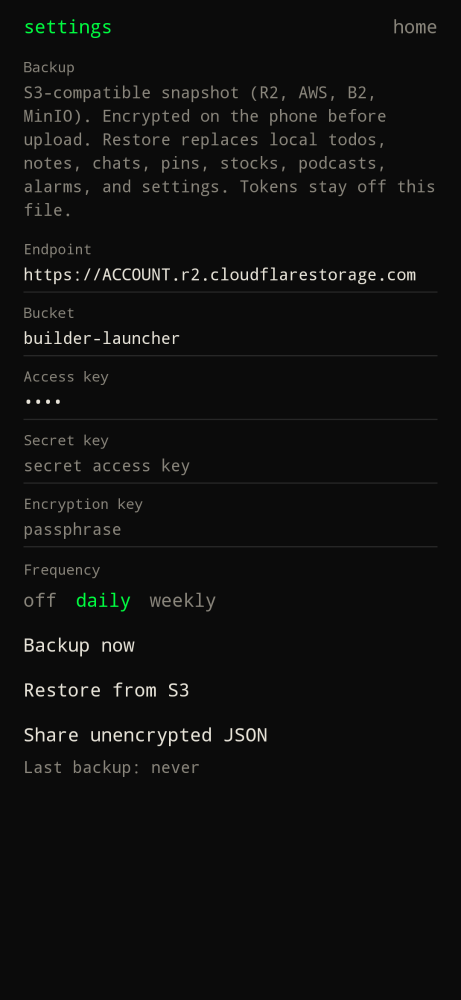
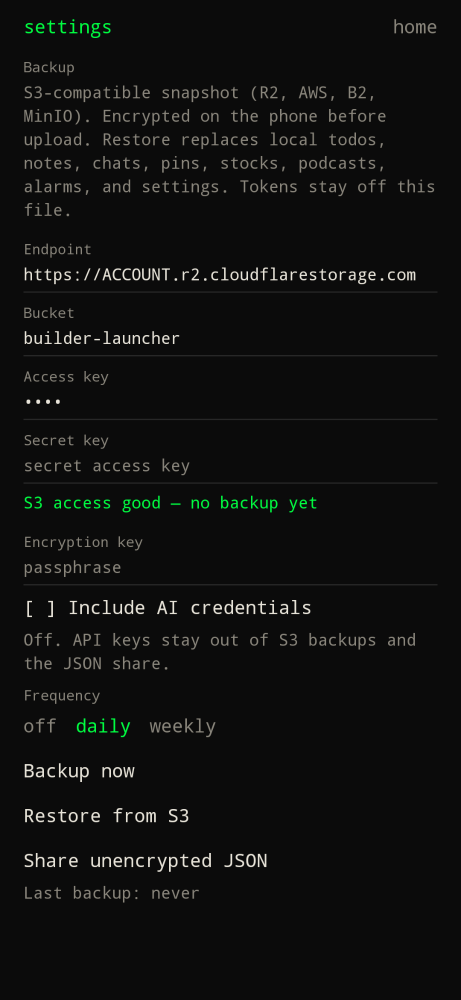
feat: opt-in AI credentials in backups and S3 access test
Include AI credentials is off by default for S3 and JSON share,
with a warning if turned on. Changing S3 endpoint/bucket/keys
probes the bucket like the AI provider access line.

diff --git a/app/src/main/java/xyz/cdr/builderlauncher/ui/BuilderRoot.kt b/app/src/main/java/xyz/cdr/builderlauncher/ui/BuilderRoot.kt
@@ -115,6 +115,8 @@ import xyz.cdr.builderlauncher.ai.oauth.PkceSession
 import xyz.cdr.builderlauncher.apps.AppList
 import xyz.cdr.builderlauncher.backup.BackupFrequency
 import xyz.cdr.builderlauncher.backup.BackupService
+import xyz.cdr.builderlauncher.backup.S3Access
+import xyz.cdr.builderlauncher.backup.S3Signer
 import xyz.cdr.builderlauncher.apps.InstalledApps
 import xyz.cdr.builderlauncher.apps.LaunchableApp
 import xyz.cdr.builderlauncher.calendar.CalendarRepository
@@ -3500,6 +3502,16 @@ private fun SettingsPage(
     var backupMsg by remember { mutableStateOf<String?>(null) }
     var backupBusy by remember { mutableStateOf(false) }
     var confirmRestore by remember { mutableStateOf(false) }
+    var s3Probe by remember { mutableStateOf<S3Access>(S3Access.Idle) }
+    LaunchedEffect(settings.s3Endpoint, settings.s3Bucket, settings.s3AccessKey, settings.s3SecretKey) {
+        if (!S3Signer.credentialsReady(settings.s3Endpoint, settings.s3Bucket, settings.s3AccessKey, settings.s3SecretKey)) {
+            s3Probe = S3Access.Idle
+            return@LaunchedEffect
+        }
+        s3Probe = S3Access.Testing
+        delay(700)
+        s3Probe = withContext(Dispatchers.IO) { backup.probe() }
+    }
     LaunchedEffect(placeQuery, settings.weatherPlace, settings.weatherLat) {
         val q = placeQuery.trim()
         if (q.length < 2 || (q == settings.weatherPlace && settings.weatherLat != null)) {
@@ -3704,10 +3716,43 @@ private fun SettingsPage(
             s3Secret = it
             repo.update { s -> s.copy(s3SecretKey = it) }
         }
+        Spacer(Modifier.height(8.dp))
+        when (val result = s3Probe) {
+            S3Access.Idle -> Text(
+                "Set endpoint, bucket, and keys to test S3.",
+                color = Dim,
+                style = MaterialTheme.typography.bodyMedium,
+            )
+            S3Access.Testing -> Text("Testing S3 access…", color = Dim, style = MaterialTheme.typography.bodyMedium)
+            is S3Access.Done -> Text(
+                result.line,
+                color = if (result.ok) Accent else Dim,
+                style = MaterialTheme.typography.bodyMedium,
+            )
+        }
         LabeledField("Encryption key", s3Encryption, "passphrase") {
             s3Encryption = it
             repo.update { s -> s.copy(s3EncryptionKey = it) }
         }
+        Spacer(Modifier.height(8.dp))
+        Text(
+            if (settings.backupIncludeAiCredentials) "[x] Include AI credentials" else "[ ] Include AI credentials",
+            color = Paper,
+            modifier = Modifier
+                .clickable {
+                    repo.update { it.copy(backupIncludeAiCredentials = !it.backupIncludeAiCredentials) }
+                }
+                .padding(vertical = 8.dp),
+        )
+        Text(
+            if (settings.backupIncludeAiCredentials) {
+                "On. Do not enable unless you use encrypted S3 backups or you understand the risk. Applies to S3 and the JSON share. OAuth tokens still stay on this phone."
+            } else {
+                "Off. API keys stay out of S3 backups and the JSON share."
+            },
+            color = Dim,
+            style = MaterialTheme.typography.bodyMedium,
+        )
         Spacer(Modifier.height(8.dp))
         Text("Frequency", color = Dim, style = MaterialTheme.typography.labelSmall)
         Row(horizontalArrangement = Arrangement.spacedBy(16.dp), modifier = Modifier.padding(vertical = 8.dp)) {

diff --git a/app/src/test/java/xyz/cdr/builderlauncher/backup/BackupTest.kt b/app/src/test/java/xyz/cdr/builderlauncher/backup/BackupTest.kt
@@ -57,7 +57,7 @@ class BackupFrequencyTest {
 
 class BackupDocumentTest {
     @Test
-    fun shareOmitsApiKeyAndKeepsTodos() {
+    fun includeOffOmitsApiKey() {
         val settings = BackupSettings.from(
             xyz.cdr.builderlauncher.data.BuilderSettings(
                 provider = LlmProvider.XAI,
@@ -79,7 +79,7 @@ class BackupDocumentTest {
     }
 
     @Test
-    fun encryptedPayloadCanCarryApiKey() {
+    fun includeOnCarriesApiKey() {
         val settings = BackupSettings.from(
             xyz.cdr.builderlauncher.data.BuilderSettings(apiKey = "sk-secret"),
             includeApiKey = true,
@@ -108,11 +108,10 @@ class S3SignerTest {
     }
 
     @Test
-    fun readyRequiresHttpsOrHttpAndAllFields() {
-        assertFalse(S3Signer.ready("", "b", "a", "s", "e"))
-        assertFalse(S3Signer.ready("https://x", "", "a", "s", "e"))
-        assertTrue(S3Signer.ready("https://x", "b", "a", "s", "e"))
-        assertTrue(S3Signer.ready("http://10.0.0.5:9000", "b", "a", "s", "e"))
+    fun credentialsReadyDoesNotNeedEncryptionKey() {
+        assertTrue(S3Signer.credentialsReady("https://x", "b", "a", "s"))
+        assertFalse(S3Signer.credentialsReady("https://x", "b", "a", ""))
+        assertFalse(S3Signer.ready("https://x", "b", "a", "s", ""))
     }
 
     @Test
@@ -195,5 +194,37 @@ class S3ClientTest {
         } catch (e: IllegalStateException) {
             assertEquals("No backup in that bucket", e.message)
         }
+    }
+
+    @Test
+    fun probeTreats404AsReachable() {
+        val http = OkHttpClient.Builder().addInterceptor {
+            Response.Builder()
+                .request(it.request())
+                .protocol(Protocol.HTTP_1_1)
+                .code(404)
+                .message("Not Found")
+                .body(ByteArray(0).toResponseBody())
+                .build()
+        }.build()
+        val result = S3Client(http).probe("https://abc.r2.cloudflarestorage.com", "b", "a", "s")
+        assertTrue(result.ok)
+        assertEquals("S3 access good — no backup yet", result.line)
+    }
+
+    @Test
+    fun probeTreats403AsDenied() {
+        val http = OkHttpClient.Builder().addInterceptor {
+            Response.Builder()
+                .request(it.request())
+                .protocol(Protocol.HTTP_1_1)
+                .code(403)
+                .message("Forbidden")
+                .body(ByteArray(0).toResponseBody())
+                .build()
+        }.build()
+        val result = S3Client(http).probe("https://abc.r2.cloudflarestorage.com", "b", "a", "s")
+        assertFalse(result.ok)
+        assertEquals("S3 access denied", result.line)
     }
 }

diff --git a/app/src/main/java/xyz/cdr/builderlauncher/backup/BackupService.kt b/app/src/main/java/xyz/cdr/builderlauncher/backup/BackupService.kt
@@ -37,8 +37,9 @@ class BackupService(
         encodeDefaults = true
     },
 ) {
-    fun document(includeApiKey: Boolean, nowMs: Long = System.currentTimeMillis()): BackupDocument {
+    fun document(nowMs: Long = System.currentTimeMillis()): BackupDocument {
         val snap = clock.snapshot()
+        val current = settings.settings.value
         return BackupDocument(
             exportedAt = nowMs,
             items = lists.items.value,
@@ -48,7 +49,7 @@ class BackupService(
             podcasts = podcasts.exportBackup(),
             alarms = snap.alarms,
             zones = snap.zones,
-            settings = BackupSettings.from(settings.settings.value, includeApiKey),
+            settings = BackupSettings.from(current, includeApiKey = current.backupIncludeAiCredentials),
         )
     }
 
@@ -59,7 +60,7 @@ class BackupService(
     fun upload(nowMs: Long = System.currentTimeMillis()): String {
         val s = settings.settings.value
         requireReady(s)
-        val plain = encode(document(includeApiKey = true, nowMs = nowMs)).toByteArray(Charsets.UTF_8)
+        val plain = encode(document(nowMs = nowMs)).toByteArray(Charsets.UTF_8)
         val blob = BackupCrypto.encrypt(plain, s.s3EncryptionKey)
         s3.put(s.s3Endpoint, s.s3Bucket, s.s3AccessKey, s.s3SecretKey, blob, nowMs)
         settings.markBackup(nowMs)
@@ -95,7 +96,7 @@ class BackupService(
     }
 
     fun shareUnencrypted() {
-        val text = encode(document(includeApiKey = false))
+        val text = encode(document())
         val dir = File(context.cacheDir, "backups").apply { mkdirs() }
         val file = File(dir, "builder-launcher.json")
         file.writeText(text)
@@ -118,6 +119,14 @@ class BackupService(
         }
         if (!s.backupFrequency.due(nowMs, s.lastBackupAtEpochMs)) return null
         return runCatching { upload(nowMs) }.getOrElse { it.message }
+    }
+
+    fun probe(): S3Access.Done {
+        val s = settings.settings.value
+        if (!S3Signer.credentialsReady(s.s3Endpoint, s.s3Bucket, s.s3AccessKey, s.s3SecretKey)) {
+            return S3AccessReport.missingFields()
+        }
+        return s3.probe(s.s3Endpoint, s.s3Bucket, s.s3AccessKey, s.s3SecretKey)
     }
 
     companion object {

diff --git a/app/src/main/java/xyz/cdr/builderlauncher/data/SettingsRepository.kt b/app/src/main/java/xyz/cdr/builderlauncher/data/SettingsRepository.kt
@@ -49,6 +49,7 @@ data class BuilderSettings(
     val s3EncryptionKey: String = "",
     val backupFrequency: BackupFrequency = BackupFrequency.OFF,
     val lastBackupAtEpochMs: Long = 0L,
+    val backupIncludeAiCredentials: Boolean = false,
 ) {
     val signedIn: Boolean get() = oauthAccess.isNotBlank() || oauthRefresh.isNotBlank()
 
@@ -207,6 +208,7 @@ class SettingsRepository(context: Context) {
             s3EncryptionKey = prefs.getString(KEY_S3_ENCRYPTION, "") ?: "",
             backupFrequency = BackupFrequency.parse(prefs.getString(KEY_BACKUP_FREQ, BackupFrequency.OFF.name)),
             lastBackupAtEpochMs = prefs.getString(KEY_BACKUP_LAST, "0")?.toLongOrNull() ?: 0L,
+            backupIncludeAiCredentials = prefs.getString(KEY_BACKUP_AI, "") == "true",
         )
     }
 
@@ -251,6 +253,7 @@ class SettingsRepository(context: Context) {
             .putString(KEY_S3_ENCRYPTION, next.s3EncryptionKey)
             .putString(KEY_BACKUP_FREQ, next.backupFrequency.name)
             .putString(KEY_BACKUP_LAST, next.lastBackupAtEpochMs.toString())
+            .putString(KEY_BACKUP_AI, if (next.backupIncludeAiCredentials) "true" else "false")
             .putString(KEY_ACCOUNTS, json.encodeToString(accounts))
             .apply()
     }
@@ -285,6 +288,7 @@ class SettingsRepository(context: Context) {
         private const val KEY_S3_ENCRYPTION = "s3_encryption"
         private const val KEY_BACKUP_FREQ = "backup_frequency"
         private const val KEY_BACKUP_LAST = "backup_last"
+        private const val KEY_BACKUP_AI = "backup_include_ai"
         private const val KEY_ACCOUNTS = "provider_accounts"
 
         private fun createPrefs(context: Context): SharedPreferences {

diff --git a/app/src/main/java/xyz/cdr/builderlauncher/ui/LauncherChrome.kt b/app/src/main/java/xyz/cdr/builderlauncher/ui/LauncherChrome.kt
@@ -1382,6 +1382,8 @@ fun BackupChrome(
     accessKey: String = "••••",
     frequency: BackupFrequency = BackupFrequency.DAILY,
     lastBackup: String = "never",
+    includeAi: Boolean = false,
+    accessLine: String = "S3 access good — no backup yet",
 ) {
     Column(
         modifier = Modifier
@@ -1405,7 +1407,22 @@ fun BackupChrome(
         Field("Bucket", bucket, "bucket")
         Field("Access key", accessKey, "access key id")
         Field("Secret key", "", "secret access key")
+        Text(accessLine, color = Accent, style = MaterialTheme.typography.bodyMedium, modifier = Modifier.padding(vertical = 8.dp))
         Field("Encryption key", "", "passphrase")
+        Text(
+            if (includeAi) "[x] Include AI credentials" else "[ ] Include AI credentials",
+            color = Paper,
+            modifier = Modifier.padding(vertical = 8.dp),
+        )
+        Text(
+            if (includeAi) {
+                "On. Do not enable unless you use encrypted S3 backups or you understand the risk. Applies to S3 and the JSON share. OAuth tokens still stay on this phone."
+            } else {
+                "Off. API keys stay out of S3 backups and the JSON share."
+            },
+            color = Dim,
+            style = MaterialTheme.typography.bodyMedium,
+        )
         Spacer(Modifier.height(12.dp))
         Text("Frequency", color = Dim, style = MaterialTheme.typography.labelSmall)
         Row(horizontalArrangement = Arrangement.spacedBy(16.dp), modifier = Modifier.padding(vertical = 8.dp)) {

diff --git a/app/src/main/java/xyz/cdr/builderlauncher/backup/S3Client.kt b/app/src/main/java/xyz/cdr/builderlauncher/backup/S3Client.kt
@@ -77,6 +77,40 @@ class S3Client(
         }
     }
 
+    fun probe(
+        endpoint: String,
+        bucket: String,
+        accessKey: String,
+        secretKey: String,
+        nowMs: Long = System.currentTimeMillis(),
+    ): S3Access.Done {
+        if (!S3Signer.credentialsReady(endpoint, bucket, accessKey, secretKey)) {
+            return S3AccessReport.missingFields()
+        }
+        val url = S3Signer.objectUrl(endpoint, bucket)
+        val amzDate = amzDate(nowMs)
+        val region = S3Signer.regionFor(endpoint)
+        val signed = S3Signer.sign(
+            method = "HEAD",
+            url = url,
+            accessKey = accessKey,
+            secretKey = secretKey,
+            region = region,
+            payload = ByteArray(0),
+            amzDate = amzDate,
+        )
+        val req = Request.Builder().url(url).head()
+        signed.forEach { (k, v) -> if (k != "host") req.header(headerName(k), v) }
+        return try {
+            http.newCall(req.build()).execute().use { resp ->
+                resp.body?.close()
+                S3AccessReport.fromHttp(resp.code)
+            }
+        } catch (_: Exception) {
+            S3AccessReport.unreachable()
+        }
+    }
+
     private fun headerName(key: String): String = when (key) {
         "authorization" -> "Authorization"
         "content-type" -> "Content-Type"

diff --git a/app/src/main/java/xyz/cdr/builderlauncher/backup/S3Signer.kt b/app/src/main/java/xyz/cdr/builderlauncher/backup/S3Signer.kt
@@ -23,10 +23,13 @@ object S3Signer {
         return "$base/${bucket.trim().trim('/')}/${key.trimStart('/')}"
     }
 
-    fun ready(endpoint: String, bucket: String, accessKey: String, secretKey: String, encryptionKey: String): Boolean =
+    fun credentialsReady(endpoint: String, bucket: String, accessKey: String, secretKey: String): Boolean =
         endpoint.isNotBlank() && bucket.isNotBlank() && accessKey.isNotBlank() &&
-            secretKey.isNotBlank() && encryptionKey.isNotBlank() &&
+            secretKey.isNotBlank() &&
             (endpoint.startsWith("https://") || endpoint.startsWith("http://"))
+
+    fun ready(endpoint: String, bucket: String, accessKey: String, secretKey: String, encryptionKey: String): Boolean =
+        credentialsReady(endpoint, bucket, accessKey, secretKey) && encryptionKey.isNotBlank()
 
     fun sign(
         method: String,

diff --git a/app/src/main/java/xyz/cdr/builderlauncher/backup/S3Access.kt b/app/src/main/java/xyz/cdr/builderlauncher/backup/S3Access.kt
@@ -1,0 +1,21 @@
+package xyz.cdr.builderlauncher.backup
+
+sealed class S3Access {
+    data object Idle : S3Access()
+    data object Testing : S3Access()
+    data class Done(val ok: Boolean, val line: String) : S3Access()
+}
+
+object S3AccessReport {
+    fun fromHttp(code: Int): S3Access.Done = when (code) {
+        200 -> S3Access.Done(true, "S3 access good — backup present")
+        404 -> S3Access.Done(true, "S3 access good — no backup yet")
+        403 -> S3Access.Done(false, "S3 access denied")
+        in 200..299 -> S3Access.Done(true, "S3 access good.")
+        else -> S3Access.Done(false, "S3 HTTP $code")
+    }
+
+    fun unreachable(): S3Access.Done = S3Access.Done(false, "Could not reach S3.")
+
+    fun missingFields(): S3Access.Done = S3Access.Done(false, "Set endpoint, bucket, and keys.")
+}

diff --git a/website/src/content/docs/configure/privacy.md b/website/src/content/docs/configure/privacy.md
@@ -5,8 +5,8 @@ description: What leaves the device, and what never does.
 
 - **No analytics.**
 - **Todos and notes** stay in local storage on the phone unless you turn on [Backup](backup/) (encrypted S3 snapshot you own) or tap **Share unencrypted JSON**.
-- **API keys and OAuth tokens** sit in encrypted SharedPreferences. They leave the device only as a Bearer token to the AI provider you chose, and only when you type `?`. The Hermes Web UI password is posted to `/api/auth/login` on your Web UI host (session cookie) and, when set, also sent as `Authorization: Bearer` on those requests. If Web UI auth fails, the same secret is sent as a Bearer token to the API server on `:8642`. OAuth tokens are never written into a backup. An encrypted S3 snapshot may include the current provider API key. The unencrypted share file does not.
-- **S3 backup** uploads only after you set endpoint, bucket, keys, and an encryption key. The object is encrypted on the phone. Frequency `off` means manual only.
+- **API keys and OAuth tokens** sit in encrypted SharedPreferences. They leave the device only as a Bearer token to the AI provider you chose, and only when you type `?`. The Hermes Web UI password is posted to `/api/auth/login` on your Web UI host (session cookie) and, when set, also sent as `Authorization: Bearer` on those requests. If Web UI auth fails, the same secret is sent as a Bearer token to the API server on `:8642`. OAuth tokens are never written into a backup. API keys stay out of S3 backups and the JSON share unless you turn on **Include AI credentials** (off by default).
+- **S3 backup** uploads only after you set endpoint, bucket, keys, and an encryption key. The object is encrypted on the phone. Frequency `off` means manual only. Changing S3 credentials runs an access test against the bucket.
 - **Weather** calls Open-Meteo with the coordinates of the city you picked (or a last GPS point if you never set a city and the OS already has a location).
 - **Stocks** call Yahoo Finance for ticker search, quotes, charts, and fundamentals (P/E, yield, market cap, EPS, volume). The watchlist itself stays on the device. CSV copy/paste never leaves the phone.
 - **SMS** is sent through the Android SMS APIs to the number you chose. Contacts are read only to complete `@` and `#`.

diff --git a/website/src/content/docs/configure/backup.md b/website/src/content/docs/configure/backup.md
@@ -15,10 +15,13 @@ This is a snapshot, not two-way sync. The last successful upload wins. Restore r
 | Bucket | Bucket name. Object key is always `builder-launcher/backup.enc`. |
 | Access key / Secret key | IAM or R2 API token. Stored in encrypted prefs on the phone. |
 | Encryption key | Passphrase. The JSON is AES-GCM encrypted on the phone before upload. Lose it and the blob is unreadable. |
+| Include AI credentials | Off by default. When on, the current provider API key is written into S3 backups and the JSON share. Do not enable unless you use encrypted S3 backups or you understand the risk. OAuth tokens never go in. |
 | Frequency | `off`, `daily`, or `weekly`. Daily/weekly run when you open the launcher if a backup is due. |
 
-**Backup now** uploads. **Restore from S3** asks once, then replaces todos, notes, chats, pins, watchlist, podcast subscriptions, alarms, world clocks, and settings. OAuth tokens and S3 credentials on this phone are left alone. The encrypted snapshot may include the current provider API key.
+Changing endpoint, bucket, access key, or secret key runs an S3 access test (same idea as the AI provider status line). `S3 access good` means the credentials can reach the bucket. A missing backup object is still a pass.
 
-**Share unencrypted JSON** opens the Android share sheet with a plaintext dump (Signal, email, another program). No API keys, OAuth tokens, or S3 secrets.
+**Backup now** uploads. **Restore from S3** asks once, then replaces todos, notes, chats, pins, watchlist, podcast subscriptions, alarms, world clocks, and settings. OAuth tokens and S3 credentials on this phone are left alone.
+
+**Share unencrypted JSON** opens the Android share sheet with a plaintext dump (Signal, email, another program). API keys are omitted unless **Include AI credentials** is on.
 
 S3 is optional. Leave the fields blank and nothing leaves the device.

diff --git a/README.md b/README.md
@@ -111,7 +111,7 @@ Nothing is sent anywhere until you type `?`. No analytics.
 
 ## Backup
 
-Settings → Backup. Optional S3-compatible snapshot (R2, AWS, B2, MinIO): endpoint, bucket, access key, secret key, encryption key, frequency `off` / `daily` / `weekly`. Encrypted on the phone before upload. Restore replaces local todos, notes, chats, pins, stocks, podcasts, alarms, and settings. **Share unencrypted JSON** uses the Android share sheet (email, Signal, another program) and omits keys and tokens.
+Settings → Backup. Optional S3-compatible snapshot (R2, AWS, B2, MinIO): endpoint, bucket, access key, secret key, encryption key, frequency `off` / `daily` / `weekly`. Encrypted on the phone before upload. Restore replaces local todos, notes, chats, pins, stocks, podcasts, alarms, and settings. **Include AI credentials** is off by default. **Share unencrypted JSON** uses the Android share sheet (email, Signal, another program).
 
 ## Keyboard phones
 
